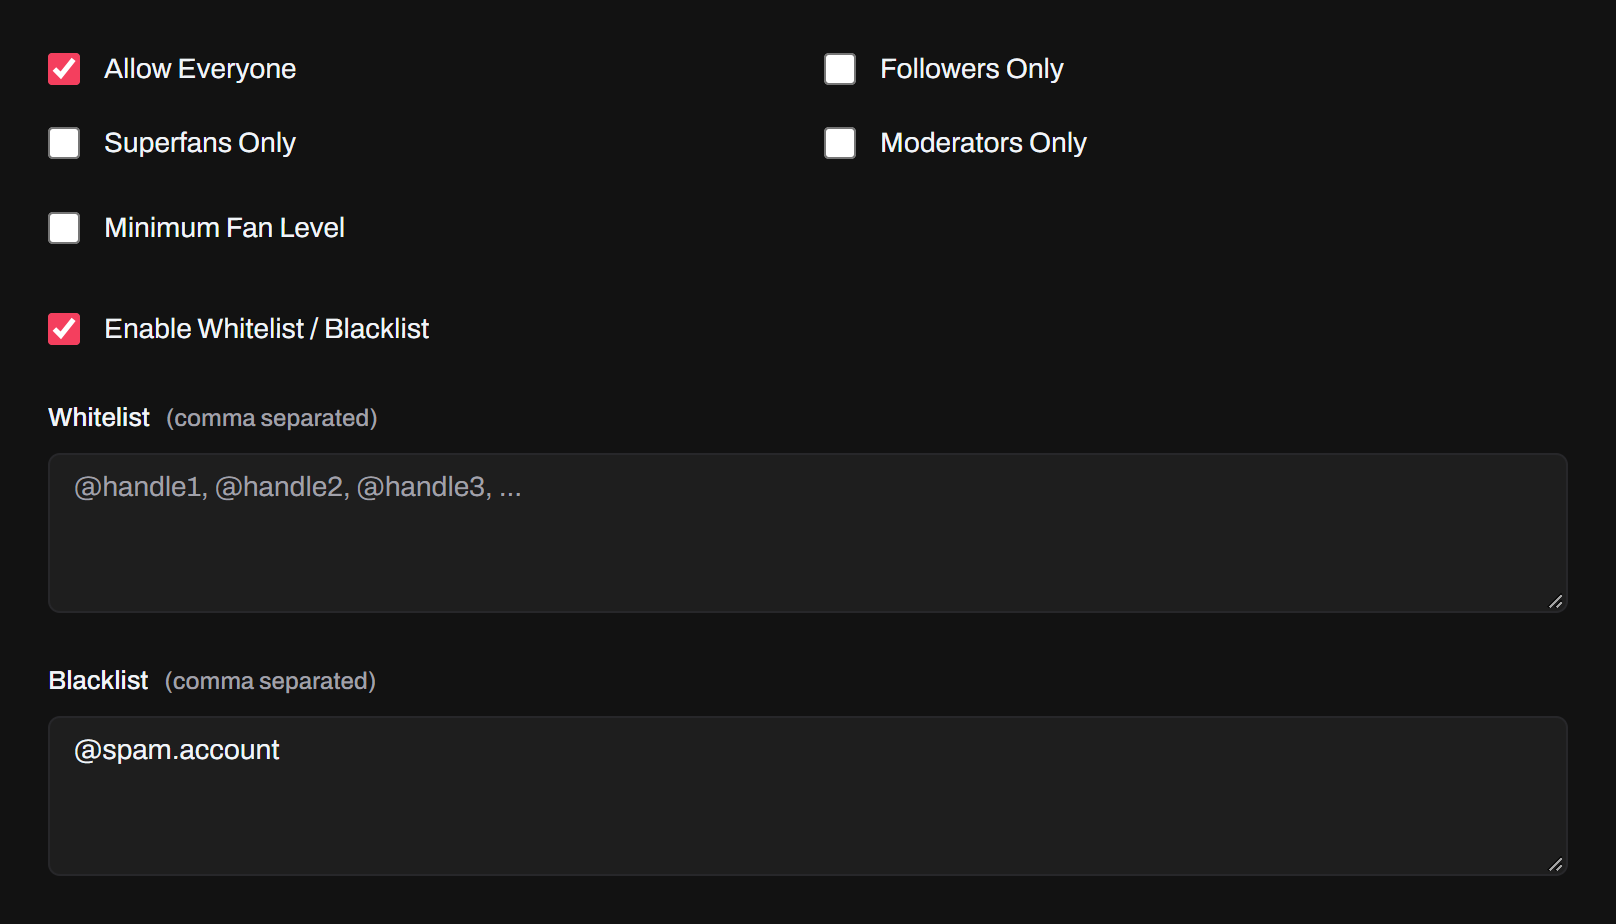
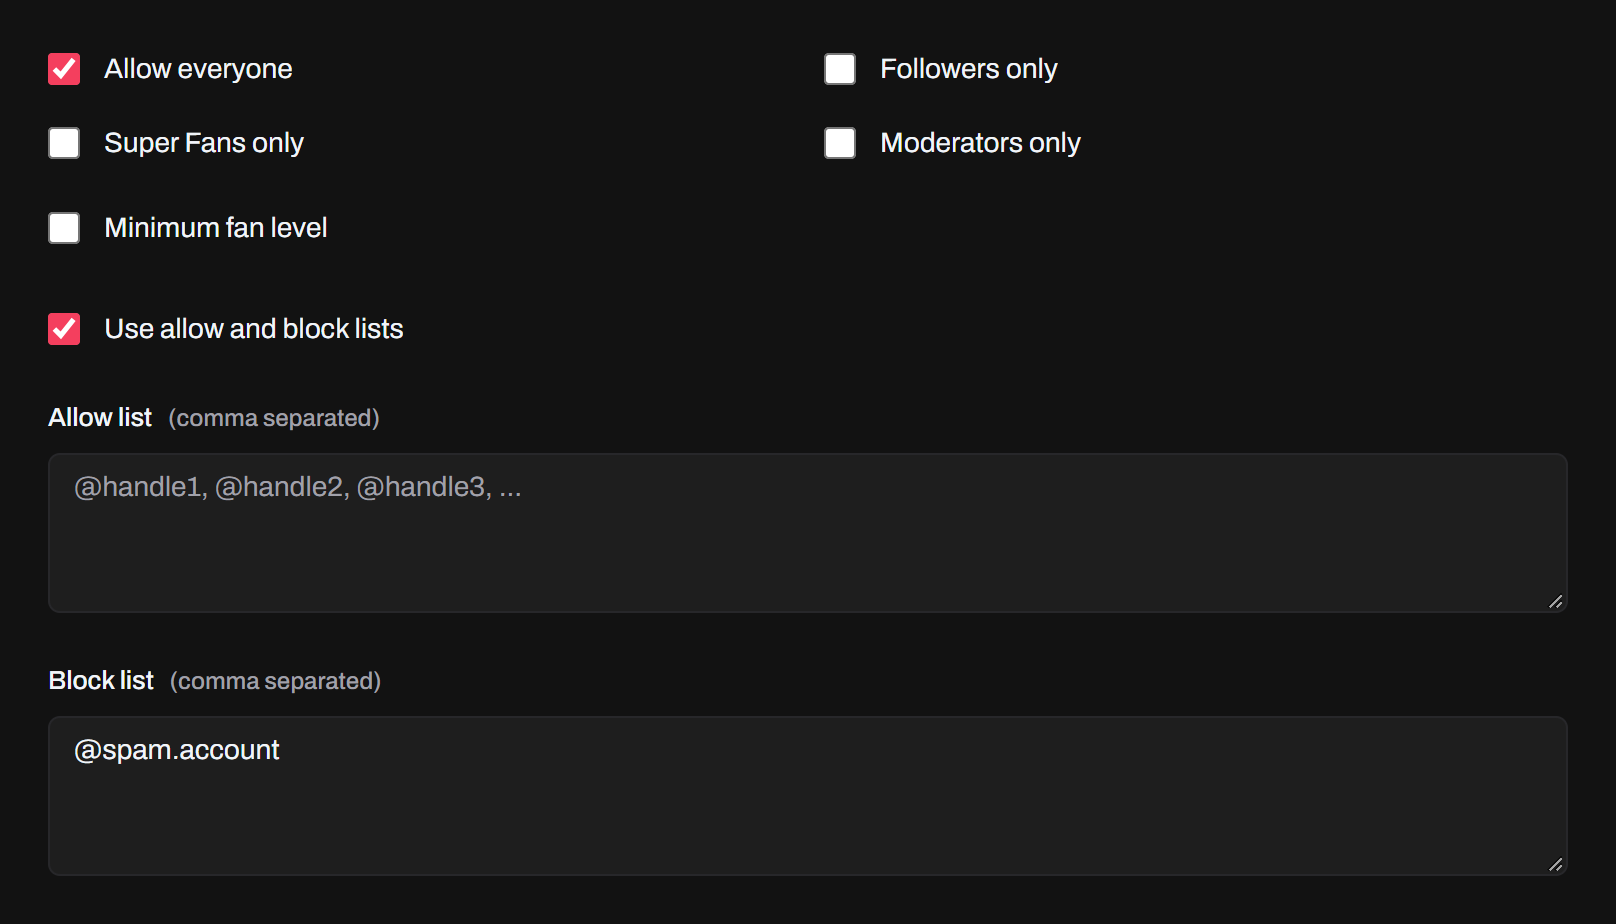
docs: describe the language setting and match the app's new wording
Settings gets a Language row. Labels follow the app's sentence case (Overlay server, Time added),
the TTS permissions use the allow and block lists, and the screenshots of the screens whose
text changed are retaken.

diff --git a/src/content/docs/docs/developers/building-an-overlay.md b/src/content/docs/docs/developers/building-an-overlay.md
@@ -192,22 +192,22 @@ Every field has a `name`, a unique `id`, a `section` (the `id` of a section) and
 
 While you build an overlay, test it from the **Tools** page instead of importing it after every change. It works with your framework's dev server too:
 
-1. Turn on the overlay server in **Settings → Overlay Server**.
-2. On **Tools → Test Overlays**, enter a name and create an ID.
+1. Turn on the overlay server in **Settings → Overlay server**.
+2. On **Tools → Test overlays**, enter a name and create an ID.
 3. Put that ID in your overlay's `window.__OVERLAY_ID__`, and open the overlay in your browser.
 4. Click **Test**. Tokio sends your overlay every LIVE event, carrying on from your last test: the same viewers come back, likes and coins add up, and a gift streak grows over a few clicks before it ends.
 
-![Tools → Test Overlays, with a test ID created for an overlay, its Test button and the buttons that copy the ID and the WebSocket URL](../../../../assets/screenshots/tools-test-overlays.png)
+![Tools → Test overlays, with a test ID created for an overlay, its Test button and the buttons that copy the ID and the WebSocket URL](../../../../assets/screenshots/tools-test-overlays.png)
 
 If Tokio says "No overlay connected with this ID.", check that the page is open and connected with the same ID.
 
 ## Import it
 
-When it's ready, import the folder in **Settings → Overlay Library**. Tokio gives it an ID, writes its settings into the page and serves it. See [Overlays](/docs/features/overlays/).
+When it's ready, import the folder in **Settings → Overlay library**. Tokio gives it an ID, writes its settings into the page and serves it. See [Overlays](/docs/features/overlays/).
 
 ## Without the library
 
-Overlays you import into Tokio need the library, since Tokio's previews post their events to the overlay's iframe. A page you don't import can connect a WebSocket itself, to `ws://localhost:37891/?id=<overlay ID>`. Tokio doesn't serve that page, so nothing rewrites its address: opened on another computer, it must connect to the Tokio PC instead of `localhost`: to `tokio-app.local` pointed at it, or to its network address (shown in **Settings → Overlay Server**). Each message is JSON with the event name and its data:
+Overlays you import into Tokio need the library, since Tokio's previews post their events to the overlay's iframe. A page you don't import can connect a WebSocket itself, to `ws://localhost:37891/?id=<overlay ID>`. Tokio doesn't serve that page, so nothing rewrites its address: opened on another computer, it must connect to the Tokio PC instead of `localhost`: to `tokio-app.local` pointed at it, or to its network address (shown in **Settings → Overlay server**). Each message is JSON with the event name and its data:
 
 ```json
 {

diff --git a/AGENTS.md b/AGENTS.md
@@ -128,7 +128,7 @@ The site follows the app's "On air" look (`tokio/.claude/rules/renderer.md`) and
 - Keep these app facts exact: the overlay address `http://tokio-app.local:37891/<overlay-id>/` (generated by Tokio), the WebSocket `ws://localhost:37891/?id=<id>`, the event names (`tokio:event:*`), and the default chat commands (`!play`, `!next`, `!last`, `!revoke`).
 - The overlay developer docs describe `info.yaml`, `config.yaml` (`OverlayConfigSchema` in the app's `src/common/schemas/overlay.ts`), the `<script id="tokio-setup">` block and the `@tokioapp/overlay` package (`../tokio-event-loader`). Update them when those change.
 - Overlays can be written in plain HTML or with any framework; `@tokioapp/overlay` has no dependencies and ships ESM, CommonJS and browser builds. Don't describe overlays as plain-HTML only, and give framework users the build requirements (relative asset paths, YAML files next to the built `index.html`, the `tokio-setup` block in the HTML template).
-- Write plain, user-facing English, in the app's tone: short sentences, second person, UI names in **bold** (**Settings → Overlay Server**).
+- Write plain, user-facing English, in the app's tone: short sentences, second person, UI names in **bold** (**Settings → Overlay server**).
 
 ## Licensing
 
